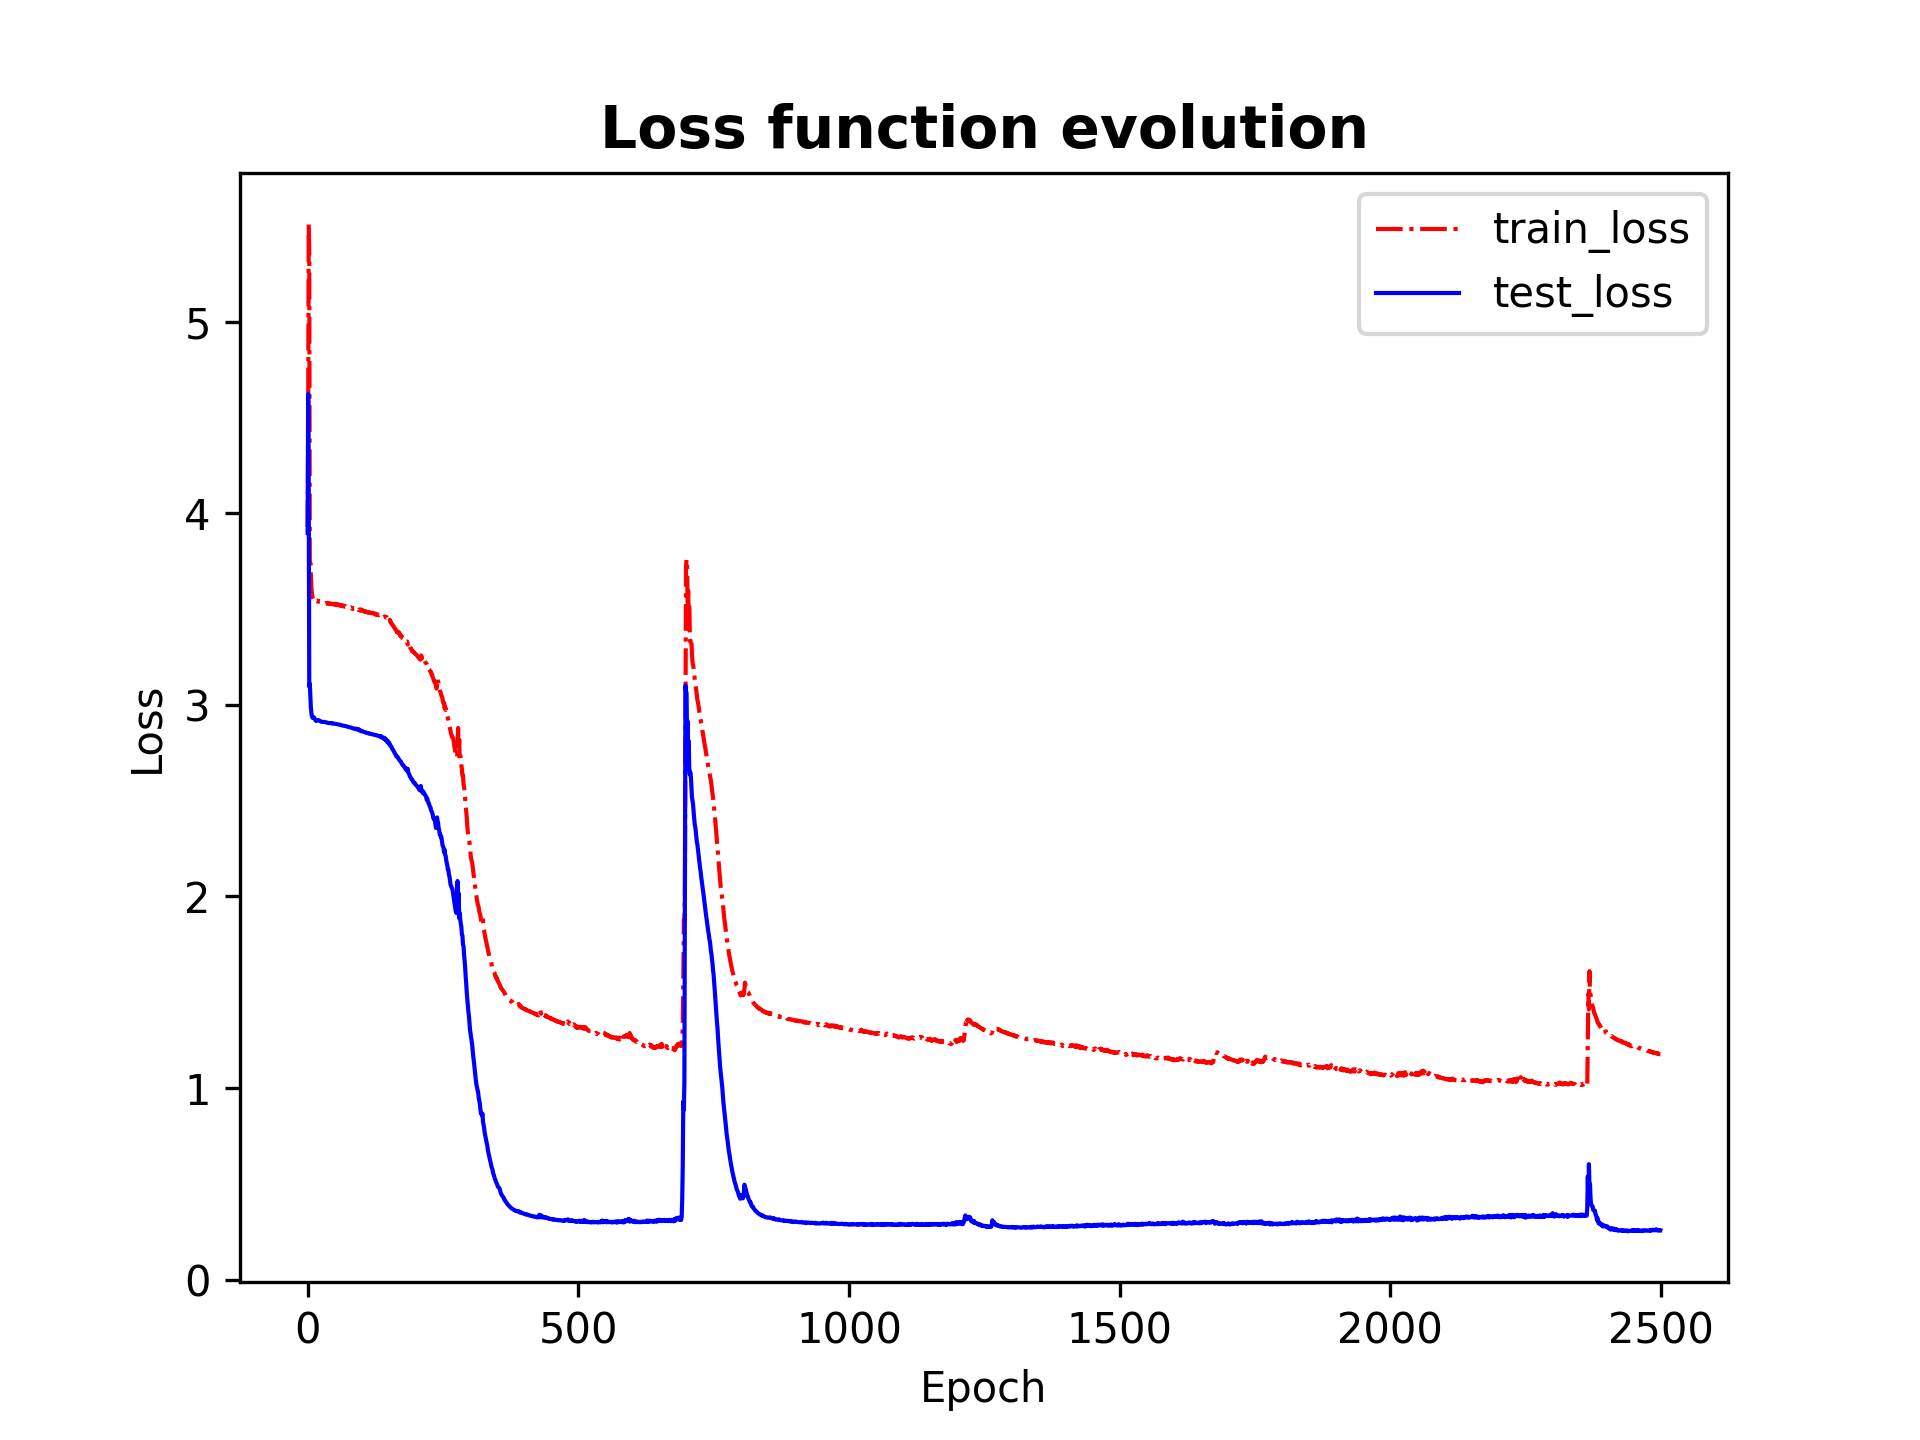
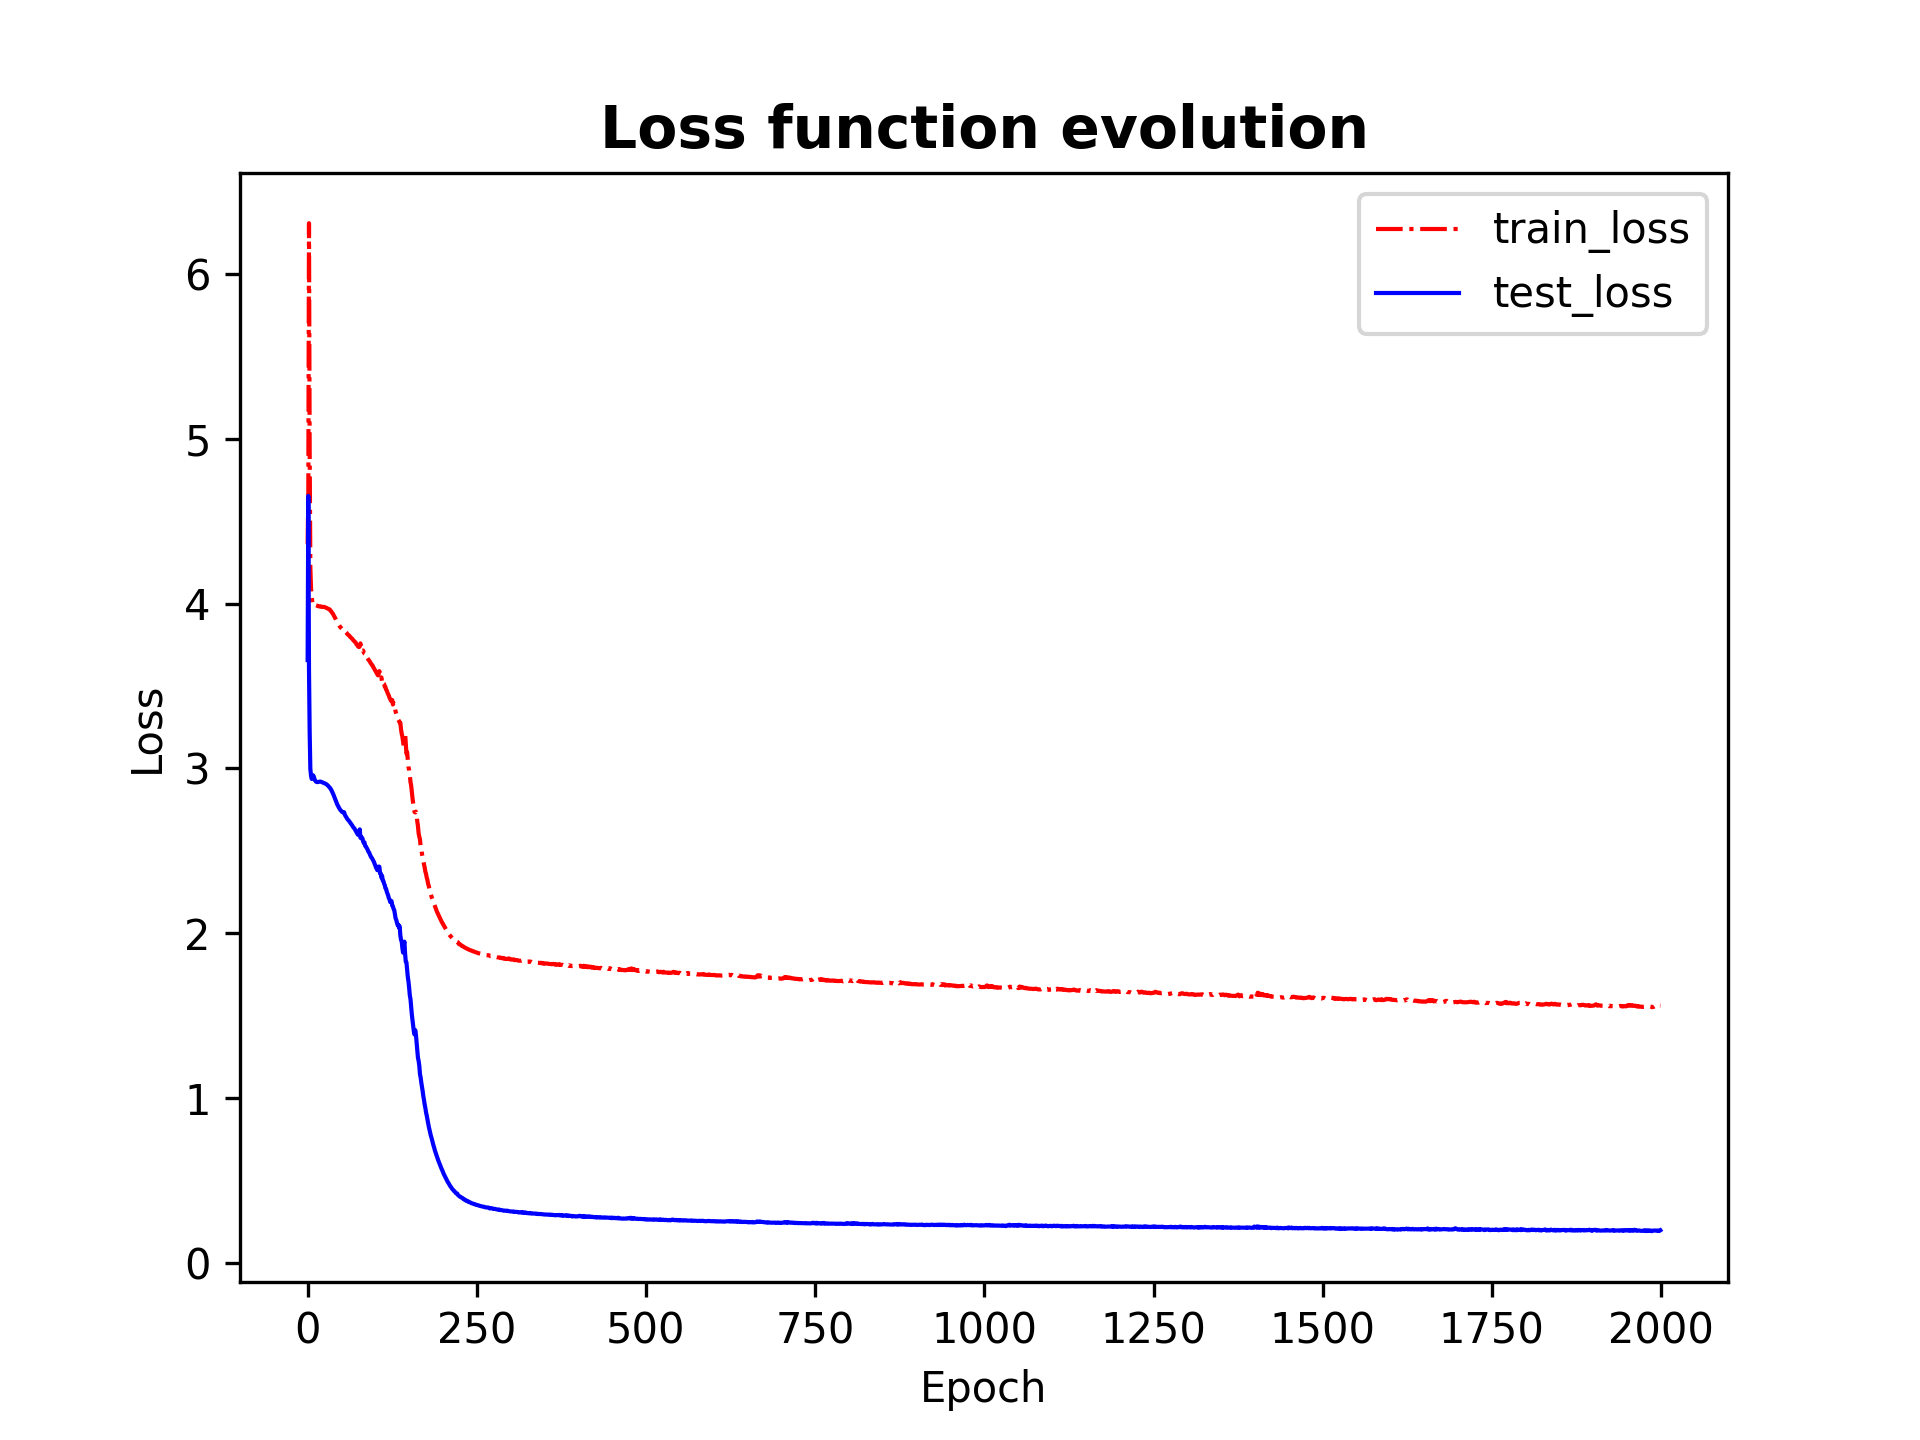
Figures for the best accuracy so far

diff --git a/P2/report.md b/P2/report.md
@@ -127,8 +127,8 @@ The following table shows the characteristics of the model
 
 | Parameter                | Value                       |
 | ------------------------ | --------------------------- |
-| Embedding size           | $24$                        |
-| Number of hidden neurons | $80$                        |
+| Embedding size           | $20$                        |
+| Number of hidden neurons | $65$                        |
 | Number of layers         | $4$                         |
 | LSTM                     | $\text{True}$               |
 | Dropout                  | $0.05$                      |
@@ -136,7 +136,7 @@ The following table shows the characteristics of the model
 | Loss function            | $\text{Cross Entropy Loss}$ |
 | Optimizer                | $\text{Adam}$               |
 
-After $2500$ training iterations, the model manages an overall accuracy of $92.5\%$, correctly classifying the $99.86\%$ of the non-corrupted sentences and $40.45\%$ of the corrupted ones. The accuracy evolution can be seen in this graph
+After $2000$ training iterations, the model manages an overall accuracy of $92.5\%$, correctly classifying the $99.86\%$ of the non-corrupted sentences and $40.45\%$ of the corrupted ones. The accuracy evolution can be seen in this graph
 
 <img src="Results/fig5.png" style="zoom:30%"></img>
 
